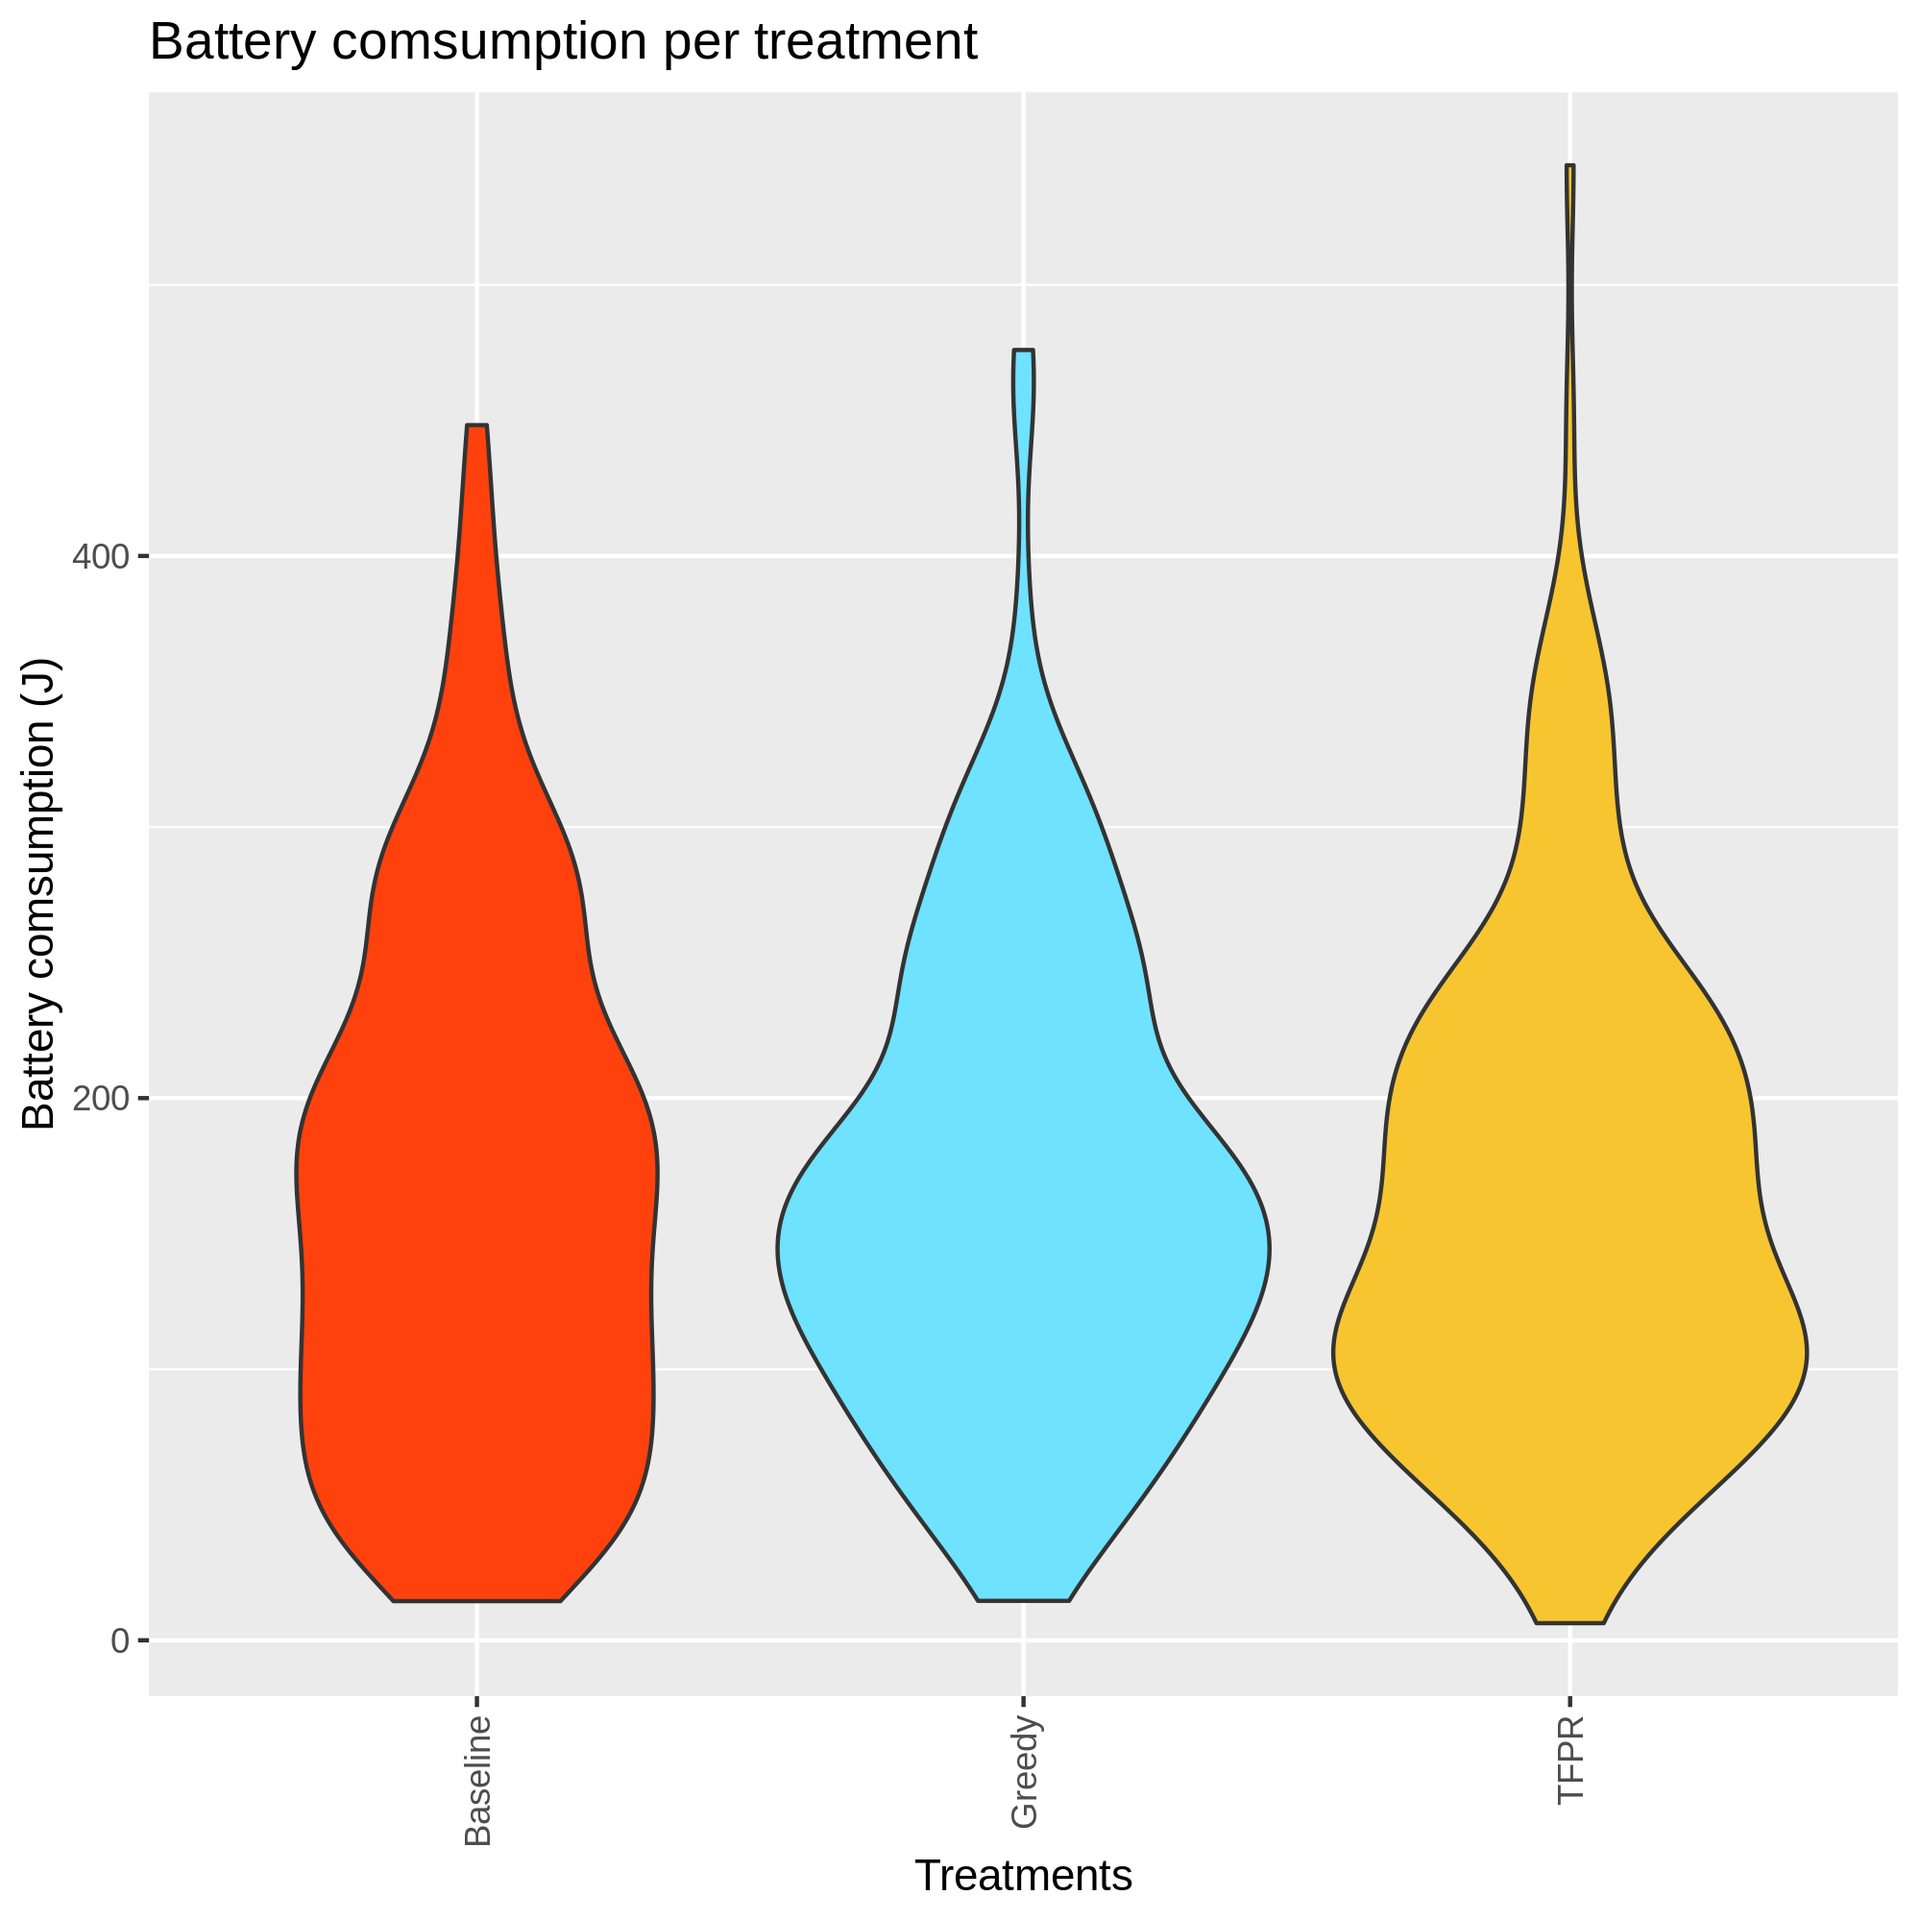
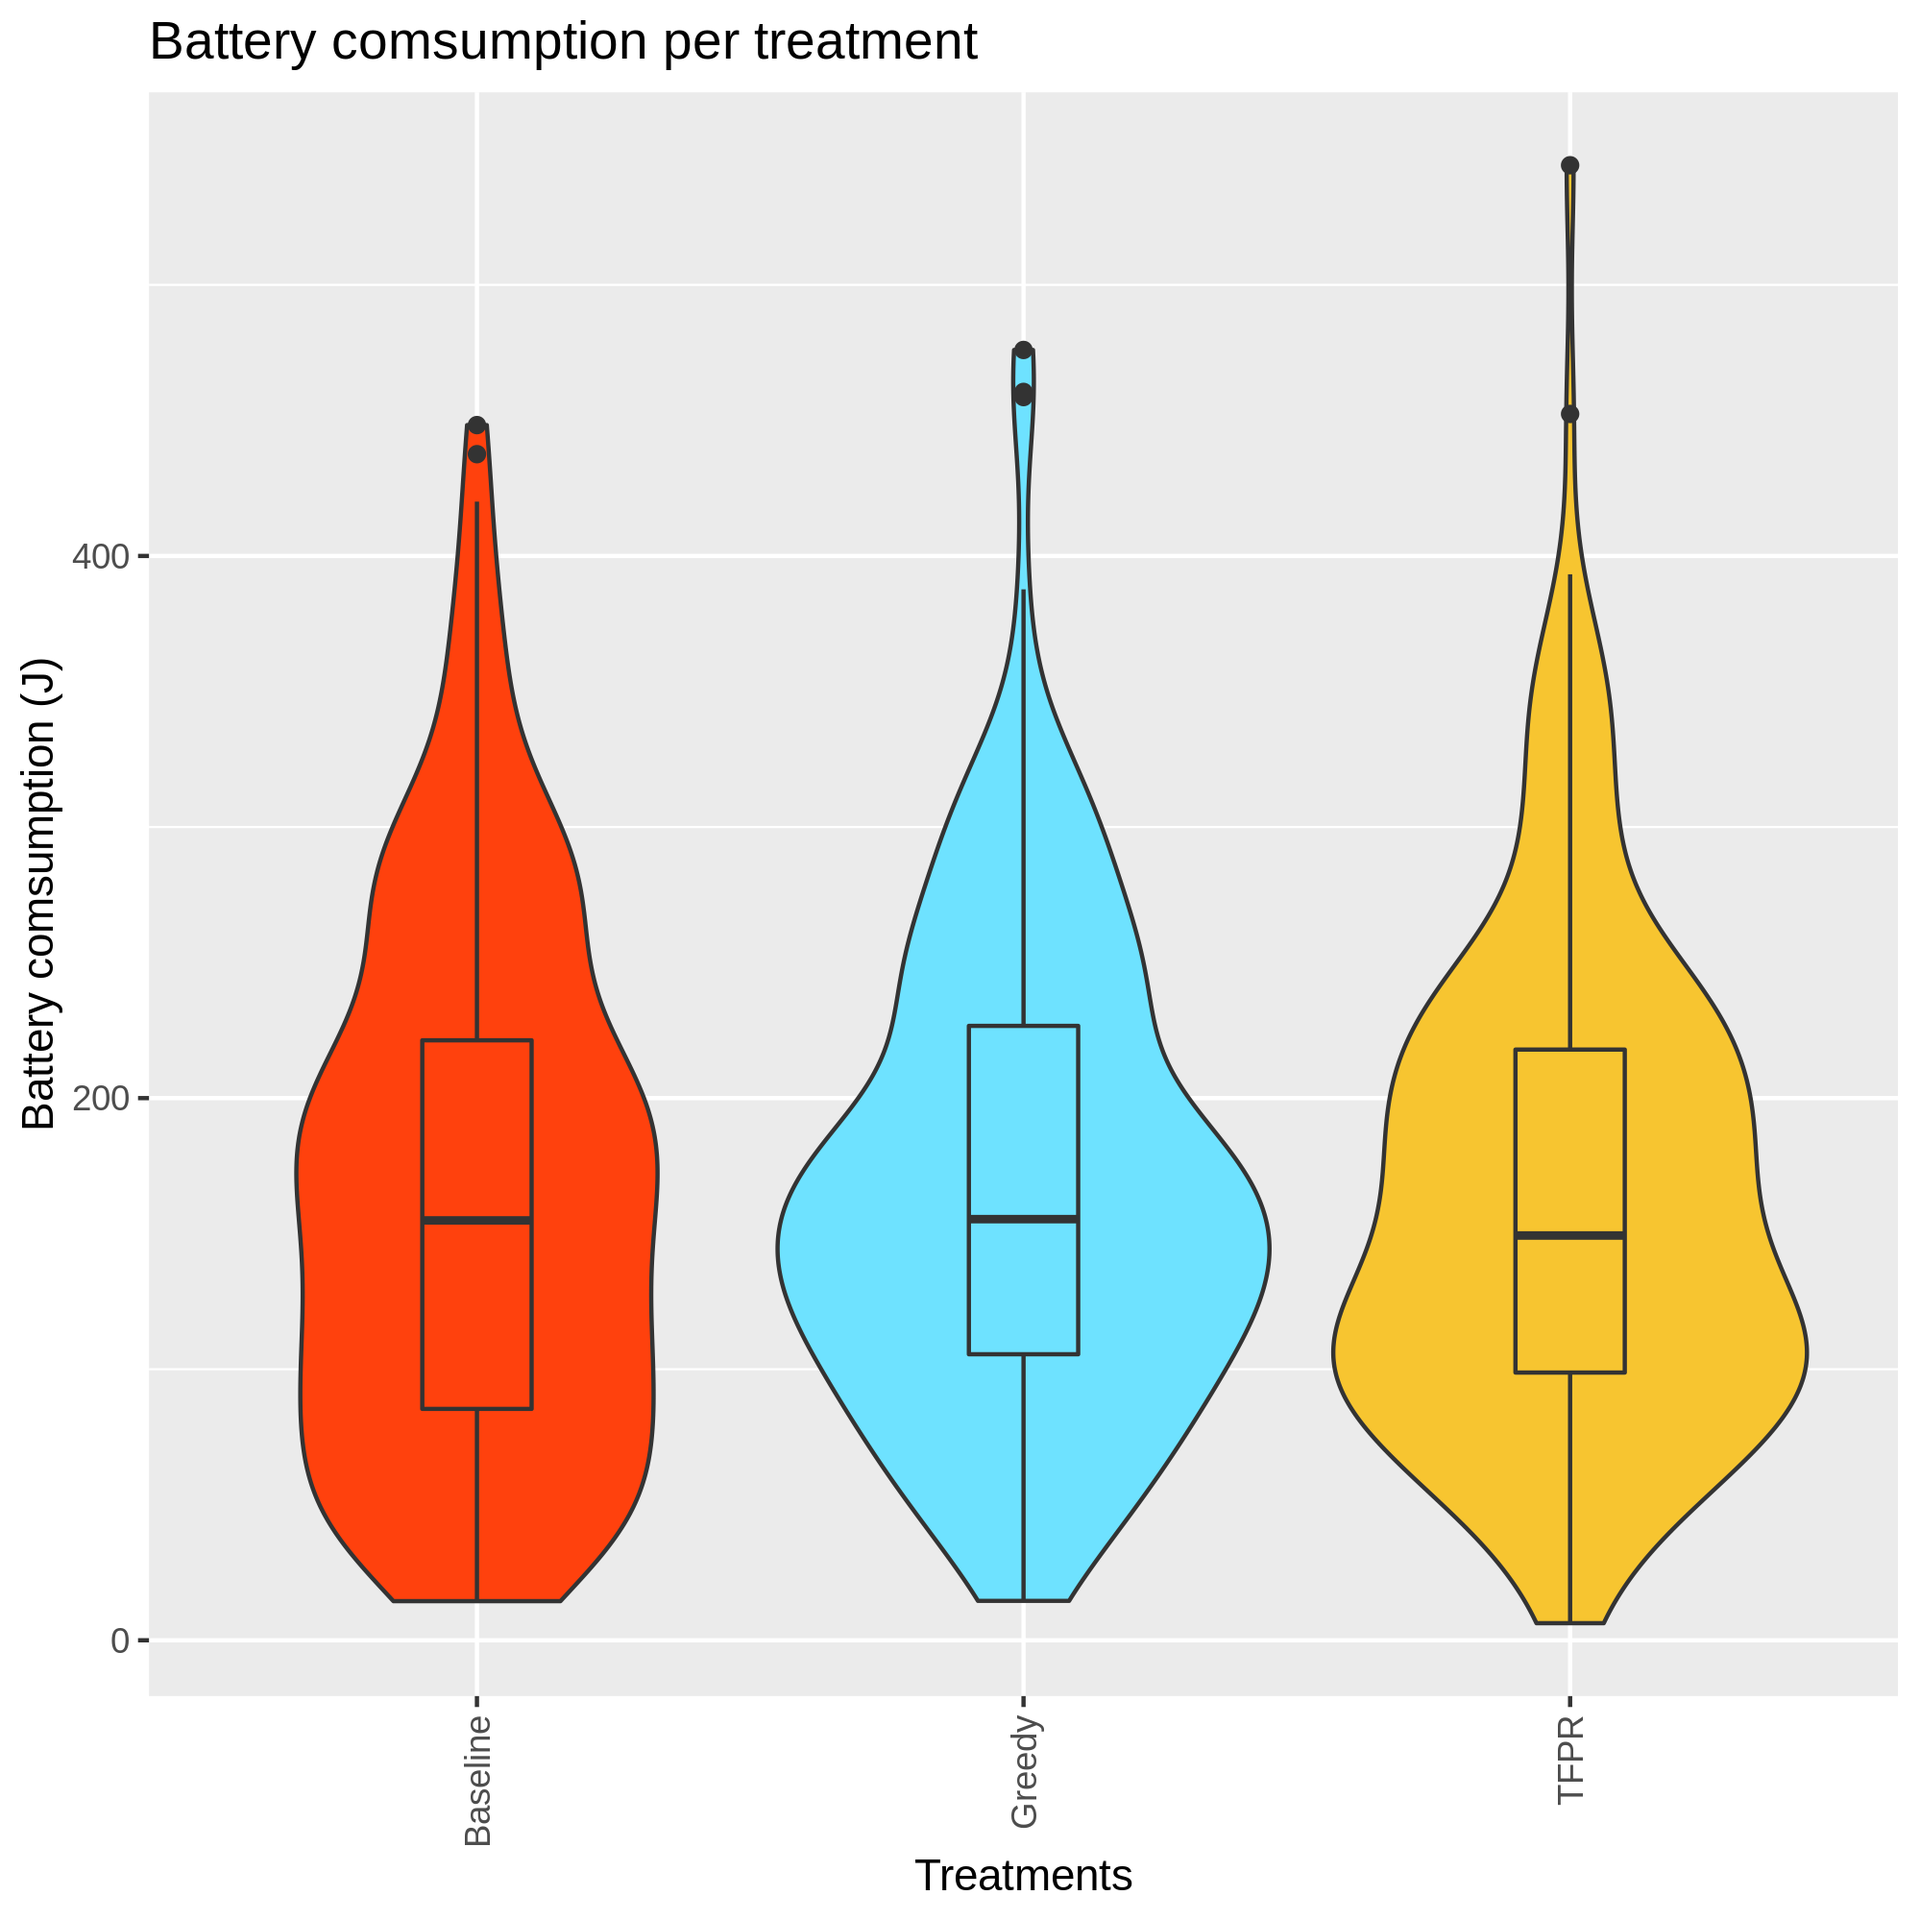
Add box in violin

diff --git a/data-analysis/output/rq1/summary-battery.tex b/data-analysis/output/rq1/summary-battery.tex
@@ -1,5 +1,5 @@
 % latex table generated in R 4.0.2 by xtable 1.8-4 package
-% Fri Aug  7 20:08:36 2020
+% Fri Aug  7 20:10:21 2020
 \begin{table}[ht]
 \centering
 \begin{tabular}{rrrrrrr}

diff --git a/data-analysis/output/rq1/summary-cpu.tex b/data-analysis/output/rq1/summary-cpu.tex
@@ -1,5 +1,5 @@
 % latex table generated in R 4.0.2 by xtable 1.8-4 package
-% Fri Aug  7 20:08:36 2020
+% Fri Aug  7 20:10:21 2020
 \begin{table}[ht]
 \centering
 \begin{tabular}{rrrrrrr}

diff --git a/data-analysis/output/rq1/summary-memory.tex b/data-analysis/output/rq1/summary-memory.tex
@@ -1,5 +1,5 @@
 % latex table generated in R 4.0.2 by xtable 1.8-4 package
-% Fri Aug  7 20:08:36 2020
+% Fri Aug  7 20:10:21 2020
 \begin{table}[ht]
 \centering
 \begin{tabular}{rrrrrrr}

diff --git a/data-analysis/output/rq1/summary-duration.tex b/data-analysis/output/rq1/summary-duration.tex
@@ -1,5 +1,5 @@
 % latex table generated in R 4.0.2 by xtable 1.8-4 package
-% Fri Aug  7 20:08:36 2020
+% Fri Aug  7 20:10:21 2020
 \begin{table}[ht]
 \centering
 \begin{tabular}{rrrr}
